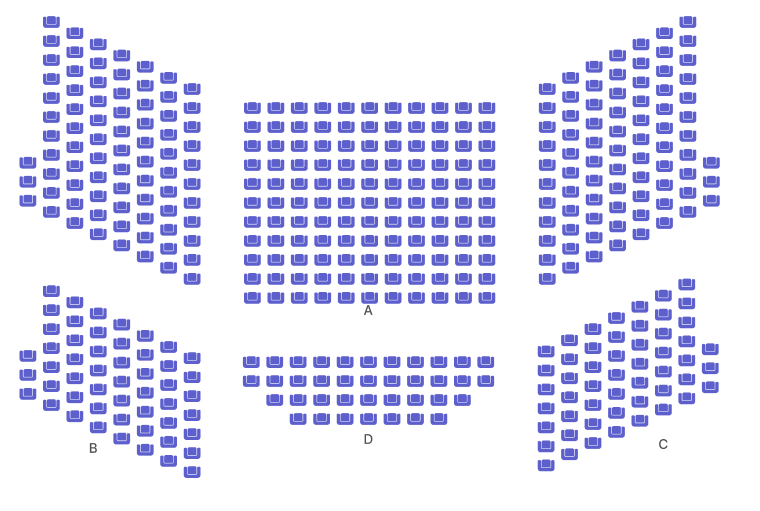
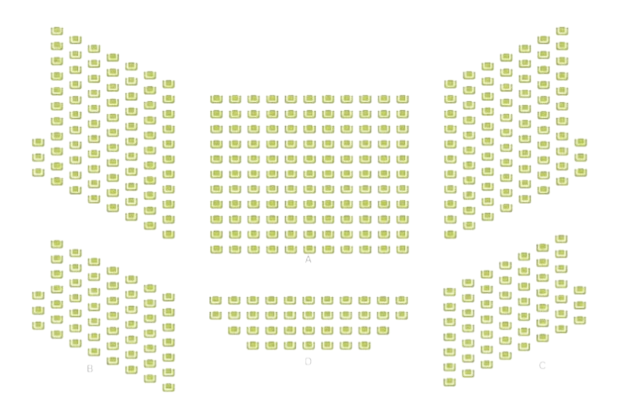
refactor:update color

diff --git a/playcool-frontend/pages/concert-detail/[id].js b/playcool-frontend/pages/concert-detail/[id].js
@@ -10,6 +10,7 @@ import {
 import { fetchAvailableSeats, fetchConcert } from "@/src/components/api";
 import { useRouter } from "next/router";
 import StepperBar from "@/src/components/StepperBar";
+import ConfirmationNumberIcon from "@mui/icons-material/ConfirmationNumber";
 
 const ConcertDetail = () => {
   const route = useRouter();
@@ -47,11 +48,18 @@ const ConcertDetail = () => {
       <StepperBar index={1}></StepperBar>
       <div>
         <Card
+
+
           sx={{
             display: "flex",
             flexDirection: "column",
             width: "auto",
             marginTop: 6,
+              backgroundColor: "transparent"
+          //     gradient: "linear-gradient(90deg, rgba(2,0,36,1) 0%, rgba(9,9,121,1) 0%, rgba(0,212,255,1) 100%)",
+
+
+
           }}
         >
           <Box
@@ -168,11 +176,11 @@ const ConcertDetail = () => {
                       alignItems: "center",
                       justifyContent: "center",
                       border: "1px solid #ccc",
-                      borderRadius: "4px",
+                      borderRadius: "8px",
                       marginLeft: 10,
                       backgroundColor:
                         selectedAreaId === area.areaId
-                          ? "#90EE90"
+                          ? "lightskyblue"
                           : area.availableSeatsCount === 0
                           ? "lightgray"
                           : "white",
@@ -204,7 +212,7 @@ const ConcertDetail = () => {
                             area.availableSeatsCount < 100 ? "red" : "green",
                         }}
                       >
-                        余: {area.availableSeatsCount}
+                          <ConfirmationNumberIcon sx={{ marginRight: 1 }} />{area.availableSeatsCount}
                       </Typography>
                     </CardContent>
                   </Card>

diff --git a/playcool-frontend/pages/snap-order/[id].js b/playcool-frontend/pages/snap-order/[id].js
@@ -43,11 +43,12 @@ const SnapOrder = () => {
                         flexDirection: 'column',
                         alignItems: 'center',
                         padding: '20px',
-                        border: '1px solid lightgray',
+                        // border: '1px solid lightgray',
                         borderRadius: '10px',
                         width: '1200px', // Set a fixed width
                         height: '550px', // Set a fixed height
-                        margin: 'auto' // Center horizontally
+                        margin: 'auto' ,// Center horizontally
+                        color: 'white',
                     }}
                 >
                     <Typography variant="h3" sx={{marginBottom: '20px'}}>
@@ -91,7 +92,8 @@ const SnapOrder = () => {
                                         border: '1px solid lightgray',
                                         borderRadius: '5px',
                                         flex: 1,
-                                        width: '300px'
+                                        width: '300px',
+                                        color:'black'
                                     }}
                                 />
                                 <button

diff --git a/playcool-frontend/src/components/StepperBar/index.js b/playcool-frontend/src/components/StepperBar/index.js
@@ -12,9 +12,11 @@ const StepperBar = ({ index }) => {
     return (
         <Box className={styles.stepperBar}>
             <Stepper activeStep={parseInt(index)} alternativeLabel sx={{
-                '& .MuiStepIcon-root': {fontSize: '2rem'},
-                '& .MuiStepIcon-root.Mui-completed': {color: 'black', fontSize: '2rem'},
-                '& .MuiStepIcon-root.Mui-active': {color: 'black', fontSize: '2rem'}
+                '& .MuiStepIcon-root': {color: 'white', fontSize: '2rem'},
+                '& .MuiStepIcon-root.Mui-completed': {color: 'white', fontSize: '2rem'},
+                '& .MuiStepIcon-root.Mui-active': {color: 'white', fontSize: '2rem'},
+                '& .MuiStepLabel-label': {color: 'white'},
+                backgroundColor: 'transparent',
             }}>
                 {steps.map((label) => (
                     <Step key={label}>

diff --git a/playcool-frontend/pages/pay-order/[id].js b/playcool-frontend/pages/pay-order/[id].js
@@ -50,7 +50,7 @@ const PayOrder = () => {
                     margin: 'auto' // Center horizontally
                 }}
             >
-                <Typography variant="h3" sx={{marginBottom: '20px'}}>
+                <Typography variant="h3" sx={{marginBottom: '20px',color:'white'}}>
                     Pay Order
                 </Typography>
                 <OrderDetail props={order}/>
@@ -63,7 +63,7 @@ const PayOrder = () => {
                         marginTop: '20px'
                     }}
                 >
-                    <Typography variant="h6" sx={{marginRight: '20px'}}>
+                    <Typography variant="h6" sx={{marginRight: '20px',color:'white'}}>
                         Please Select Payment Method:
                     </Typography>
                     <Box

diff --git a/playcool-frontend/src/components/OrderDetail/index.js b/playcool-frontend/src/components/OrderDetail/index.js
@@ -22,6 +22,8 @@ const OrderDetail = ({ props }) => {
         alignItems: "center",
         width: "auto",
         boxShadow: "0",
+          backgroundColor: "transparent",
+          color: "white",
       }}
     >
       <Box
@@ -47,7 +49,7 @@ const OrderDetail = ({ props }) => {
           <Typography variant="h4" component="h2" sx={{ fontWeight: "bold" }}>
             {props.concertName}
           </Typography>
-          <Typography variant="body2" color="textSecondary" component="p">
+          <Typography variant="body2" component="p">
             {props.venueName}
           </Typography>
         </CardContent>

diff --git a/playcool-frontend/src/components/AccountMenu/index.js b/playcool-frontend/src/components/AccountMenu/index.js
@@ -30,7 +30,9 @@ export default function AccountMenu() {
           <IconButton
             onClick={handleClick}
             size="small"
-            sx={{ ml: 2 }}
+            sx={{ ml: 2,
+          mr:6
+          }}
             aria-controls={open ? "account-menu" : undefined}
             aria-haspopup="true"
             aria-expanded={open ? "true" : undefined}

diff --git a/playcool-frontend/pages/index.js b/playcool-frontend/pages/index.js
@@ -22,7 +22,7 @@ export default function MainPage() {
   return (
       <div>
         <CarouselUI />
-        <Banner />
+        {/*<Banner />*/}
         {/* <ConcertList /> */}
 
         <Box sx={{ display: 'flex', justifyContent: 'center', alignItems: 'center', height: '100vh' }}>

diff --git a/playcool-frontend/styles/globals.css b/playcool-frontend/styles/globals.css
@@ -15,7 +15,7 @@
 }
 
 body {
-  @apply bg-gradient-dark-blue !important;
+  @apply bg-gradient-to-tr from-indigo-100 via-blue-400 via-20% to-blue-900 !important;
   color: var(--foreground);
   font-family: Arial, Helvetica, sans-serif;
   min-height: 100vh;

diff --git a/playcool-frontend/src/components/NavBar/NavBar.module.css b/playcool-frontend/src/components/NavBar/NavBar.module.css
@@ -17,13 +17,16 @@
 .navItems {
     display: flex;
     gap: 16px;
-    margin-left: 70%;
+    margin-left: 75%;
+    min-width: 200px;
     color: white;
+
 }
 
 .navButton {
     text-transform: none;
     color: white;
+
 }
 
 .loginButton {

diff --git a/playcool-frontend/src/components/Carousel/index.js b/playcool-frontend/src/components/Carousel/index.js
@@ -44,7 +44,7 @@ export default function CarouselUI() {
   return (
     <div
       style={{
-        backgroundColor: "#0F1139",
+        // backgroundColor: "#0F1139",
       }}
     >
       <Carousel

diff --git a/playcool-frontend/src/components/ConfirmOrder/ConfirmOrder.module.css b/playcool-frontend/src/components/ConfirmOrder/ConfirmOrder.module.css
@@ -2,6 +2,8 @@
     margin: 20px 500px;
     padding: 40px 50px;
     border-radius: 5px;
+    background-color: transparent;
+    color:white;
 }
 
 .orderSummaryTitle {
